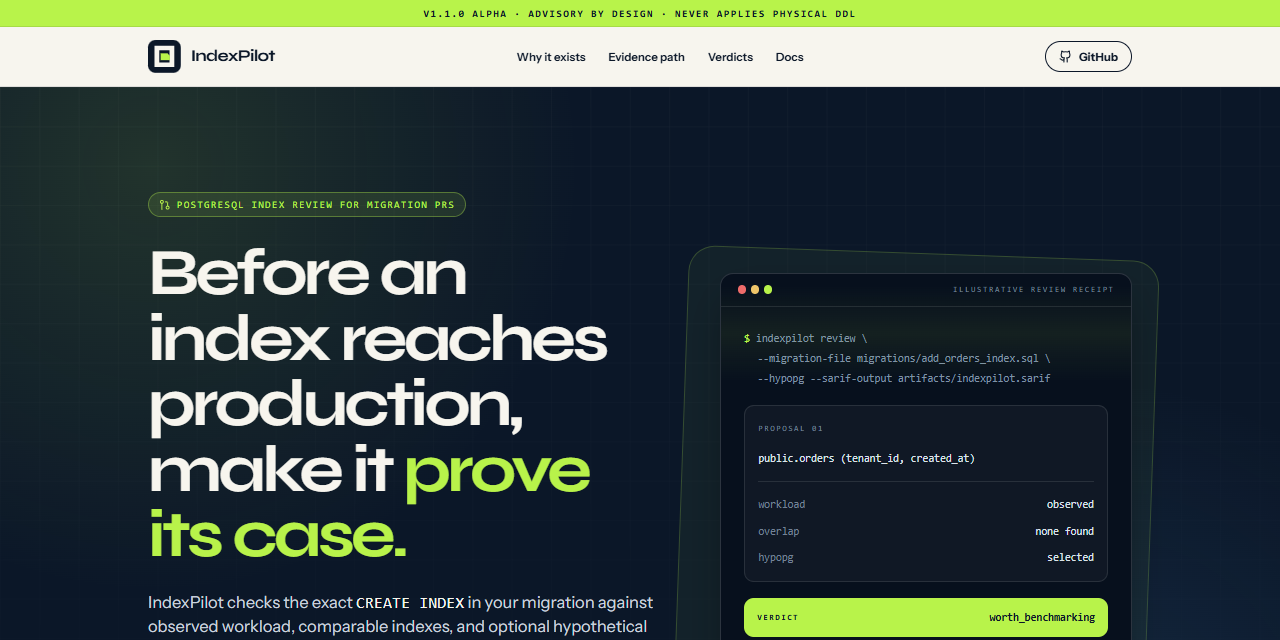
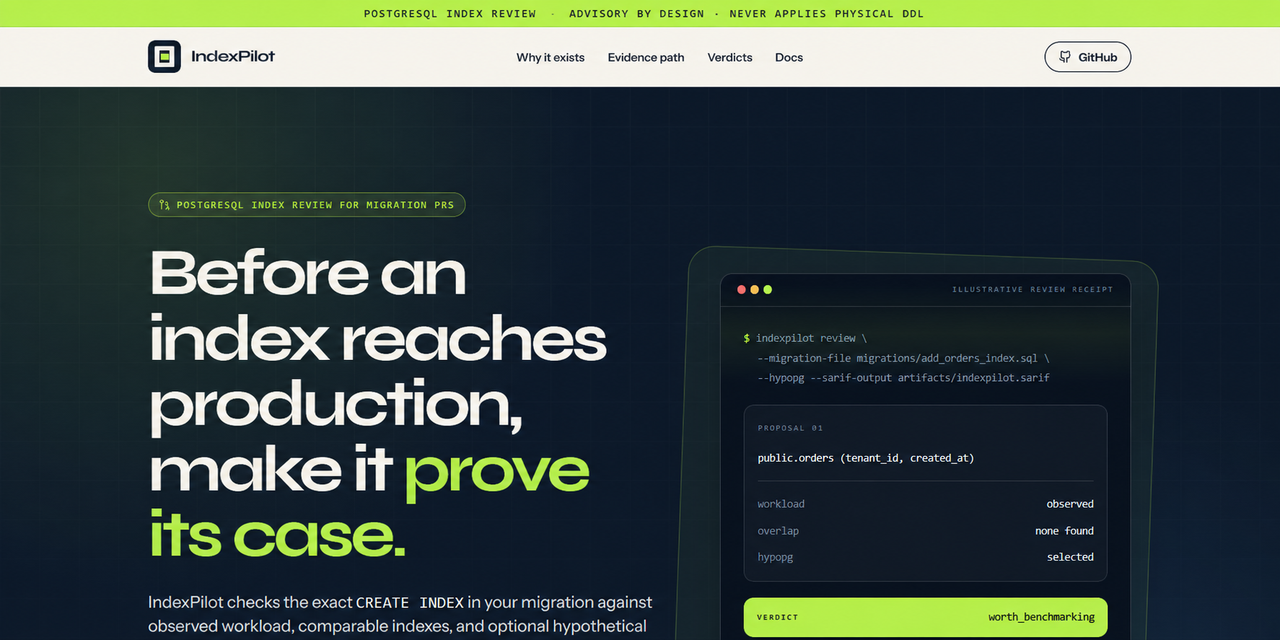
fix(launch): remove stale preview claims (#75)

diff --git a/ui/app/page.tsx b/ui/app/page.tsx
@@ -103,7 +103,7 @@ export default function PublicHome() {
       />
 
       <div className="border-b border-[#0b1728]/10 bg-[#b8f34a] px-4 py-2 text-center font-mono text-[11px] font-semibold uppercase tracking-[0.16em] text-[#0b1728] sm:text-xs">
-        v1.1.0 alpha · advisory by design · never applies physical DDL
+        PostgreSQL index review · advisory by design · never applies physical DDL
       </div>
 
       <header className="sticky top-0 z-50 border-b border-[#0b1728]/10 bg-[#f7f5ee]/90 backdrop-blur-xl">
@@ -440,7 +440,7 @@ export default function PublicHome() {
                 One CLI. Your migration. A read-only role.
               </h2>
               <p className="mt-5 max-w-xl text-lg leading-8 text-[#435043]">
-                Install the current alpha directly from PyPI. The core CLI does not need the
+                Install the current release directly from PyPI. The core CLI does not need the
                 dashboard, API, Docker, or ML extras.
               </p>
               <div className="mt-7 flex flex-wrap gap-3">
@@ -458,7 +458,7 @@ export default function PublicHome() {
                 </a>
               </div>
               <p className="mt-7 border-l-2 border-[#456100] pl-4 text-sm leading-6 text-[#435043]">
-                Alpha boundary: plain-column, non-unique, ascending B-trees. HypoPG review plans one
+                Supported shape: plain-column, non-unique, ascending B-trees. HypoPG review plans one
                 representative query per candidate; it is not a full workload regression test.
               </p>
             </div>
@@ -644,7 +644,7 @@ export default function PublicHome() {
         <section className="bg-[#b8f34a] text-[#0b1728]">
           <div className="mx-auto flex max-w-7xl flex-col gap-8 px-5 py-16 sm:px-8 sm:py-20 lg:flex-row lg:items-center lg:justify-between lg:px-10">
             <div className="max-w-3xl">
-              <p className="font-mono text-xs font-bold uppercase tracking-[0.2em]">Open-source alpha</p>
+              <p className="font-mono text-xs font-bold uppercase tracking-[0.2em]">Open source · read only</p>
               <h2 className="mt-3 font-display text-4xl font-bold tracking-[-0.045em] sm:text-5xl">
                 Put one proposed index on trial.
               </h2>

diff --git a/docs/future phases/SAAS_CONVERSION_PLAN.md b/docs/future phases/SAAS_CONVERSION_PLAN.md
@@ -1,5 +1,9 @@
 # IndexPilot - SaaS Conversion Plan
 
+> **Historical 2025 planning document.** The SaaS, multi-tenant, automatic-indexing, and superiority
+> claims below are not current IndexPilot behavior or launch proof. Use the [README](../../README.md)
+> and [current usage guide](../USAGE.md) for the supported advisory, read-only CLI.
+
 **Date**: 10-12-2025  
 **Purpose**: Comprehensive plan to convert IndexPilot from open-source library to SaaS product  
 **Based on**: Competitive analysis, benchmark results, and market research
@@ -536,4 +540,3 @@ Recommendations → User Database
 **Document Created**: 10-12-2025  
 **Status**: Ready for implementation  
 **Next Review**: After MVP completion
-

diff --git a/docs/installation/EXECUTION_GUIDE.md b/docs/installation/EXECUTION_GUIDE.md
@@ -1,5 +1,9 @@
 # Execution Guide
 
+> **Historical installation path.** The Docker, Python 3.8, and `requirements.txt` steps below are
+> not the current supported setup. Start with the [README](../../README.md) and
+> [current installation guide](../INSTALLATION.md), which support Python 3.10–3.13 and PyPI.
+
 ## Prerequisites
 
 1. **Docker Desktop** must be running on your system
@@ -232,4 +236,3 @@ After running both simulations and the report, you should see:
 - The simulator has been optimized with bulk inserts and connection reuse for 1.7-2x better performance
 - Results are saved as JSON files for later analysis
 - **Main simulation guide**: `docs/installation/SCENARIO_SIMULATION_GUIDE.md` (complete reference)
-

diff --git a/docs/research/COMPETITOR_RESEARCH_FINDINGS.md b/docs/research/COMPETITOR_RESEARCH_FINDINGS.md
@@ -1,5 +1,9 @@
 # IndexPilot Competitor Research Findings
 
+> **Historical 2025 research.** This material informed experiments; it is not a current capability
+> comparison or product claim. Use the [README](../../README.md) and
+> [current usage guide](../USAGE.md) for supported behavior.
+
 **Date**: 07-12-2025  
 **Research Period**: Comprehensive analysis of 5 major competitors  
 **Status**: Complete
@@ -527,4 +531,3 @@ See `COMPETITOR_UPGRADE_PLAN.md` for detailed enhancement recommendations based 
 
 **Research Completed**: 07-12-2025  
 **Status**: Ready for upgrade plan creation
-

diff --git a/docs/research/COMPETITOR_RESEARCH_SUMMARY.md b/docs/research/COMPETITOR_RESEARCH_SUMMARY.md
@@ -1,5 +1,9 @@
 # IndexPilot Competitor Research Summary
 
+> **Historical 2025 research.** This summary is retained for context; it is not a current capability
+> comparison or superiority claim. Use the [README](../../README.md) and
+> [current usage guide](../USAGE.md) for supported behavior.
+
 **Date**: 07-12-2025  
 **Research Status**: ✅ Complete  
 **Documents Created**: 3 comprehensive research documents
@@ -246,4 +250,3 @@ After implementing the upgrade plan, IndexPilot will be:
 **Research Completed**: 07-12-2025  
 **Status**: ✅ Complete - Ready for implementation planning  
 **Last Updated**: 07-12-2025 (Added academic research findings)
-

diff --git a/docs/research/COMPETITOR_UPGRADE_PLAN.md b/docs/research/COMPETITOR_UPGRADE_PLAN.md
@@ -1,5 +1,9 @@
 # IndexPilot Competitive Upgrade Plan
 
+> **Historical 2025 plan.** Implementation and superiority statements below describe the earlier
+> sprint, not the supported public product or production proof. Use the [README](../../README.md)
+> and [current roadmap](../ROADMAP.md) for today's scope.
+
 **Date**: 08-12-2025  
 **Based on**: Comprehensive competitor research  
 **Objective**: Enhance IndexPilot to surpass all competitors
@@ -721,4 +725,3 @@ Based on research from arXiv, TechRxiv, and academic sources, the following adva
 **Status**: Ready for implementation  
 **Last Updated**: 07-12-2025 (Added academic research findings)  
 **Next Steps**: Begin Phase 1 implementation
-

diff --git a/docs/research/USER_PAIN_POINTS_AND_WISHLIST.md b/docs/research/USER_PAIN_POINTS_AND_WISHLIST.md
@@ -1,5 +1,9 @@
 # IndexPilot User Pain Points and Wishlist Research
 
+> **Historical 2025 research.** The pains and wishlist items below are hypotheses and research
+> inputs, not evidence that IndexPilot implements every named capability. Use the
+> [README](../../README.md) and [current usage guide](../USAGE.md) for supported behavior.
+
 **Date**: 07-12-2025  
 **Research Focus**: Deep dive into user pain points and wishlist items for PostgreSQL indexing tools  
 **Status**: Complete
@@ -888,4 +892,3 @@ Research from academic sources (arXiv, TechRxiv) has identified advanced algorit
 **Research Completed**: 07-12-2025  
 **Status**: ✅ Complete - Ready for prioritization and implementation  
 **Last Updated**: 07-12-2025 (Added academic research findings)
-

diff --git a/docs/testing/benchmarking/TESTING_WITH_REAL_DATABASES.md b/docs/testing/benchmarking/TESTING_WITH_REAL_DATABASES.md
@@ -1,5 +1,9 @@
 # Testing IndexPilot with Real Databases
 
+> **Historical 2025 research.** The approaches below are ideas for future validation, not evidence
+> that IndexPilot has produced production latency, write-overhead, index-size, or rollback results.
+> Use the [README](../../../README.md) and [current roadmap](../../ROADMAP.md) for proven scope.
+
 **Date**: 08-12-2025  
 **Purpose**: Research summary on how to test database optimization systems like IndexPilot with real databases, available datasets, and testing communities
 
@@ -376,4 +380,3 @@ The PostgreSQL and database optimization communities are particularly receptive 
 **Document Status**: Research Summary  
 **Last Updated**: 08-12-2025  
 **Author**: AI Research Assistant
-

diff --git a/docs/DOCUMENTATION_INDEX.md b/docs/DOCUMENTATION_INDEX.md
@@ -25,7 +25,9 @@ The public launch path is the read-only PostgreSQL index review CLI. Start with 
 | `docs/codebase/` | Current | Code-rooted architecture, stack, tests, and concerns |
 | `docs/research/2026-07-14_SQL_PARSER_ADOPTION.md` | Current decision record | Why SQLGlot replaced regex parsing |
 | `docs/articles/` | Public drafts | Generic PostgreSQL education without private project evidence |
-| `docs/features/`, `docs/installation/`, `docs/tech/`, `docs/case_studies/` | Mostly historical sprint material | Experiments and context, not current launch claims |
+| `docs/features/`, legacy `docs/installation/`, `docs/tech/`, `docs/case_studies/` | Mostly historical sprint material | Experiments and context, not current launch claims |
+| `docs/future phases/` and legacy `docs/research/` | Historical plans and research | Hypotheses and prior comparisons, not supported behavior |
+| `docs/testing/benchmarking/` | Historical benchmark research and artifacts | Test ideas and sprint evidence, not production proof |
 
 ## Product boundaries
 

diff --git a/docs/features/ENHANCEMENT_ROADMAP.md b/docs/features/ENHANCEMENT_ROADMAP.md
@@ -1,5 +1,9 @@
 # IndexPilot - Focused Enhancement Roadmap
 
+> **Historical 2025 sprint roadmap.** The “production-ready autopilot” direction below is not the
+> current product promise. IndexPilot now launches as an advisory, read-only index review CLI; see
+> the [README](../../README.md) and [current roadmap](../ROADMAP.md).
+
 ## Philosophy: Focused Development
 
 This roadmap is **ruthlessly prioritized** to enhance IndexPilot from a working system to a production-ready autopilot in **2-3 weeks**, not 4-6 months.

diff --git a/docs/installation/AUTO_ACTIVATION_SOLUTION.md b/docs/installation/AUTO_ACTIVATION_SOLUTION.md
@@ -1,5 +1,9 @@
 # Automatic Venv Activation and UTF-8 Setup - Final Solution
 
+> **Historical machine-specific note.** This Git Bash profile change is not required or supported
+> as the normal IndexPilot install. Use the [README](../../README.md) and
+> [current installation guide](../INSTALLATION.md); do not edit shell profiles for a standard setup.
+
 **Date**: 10-12-2025  
 **Status**: ✅ WORKING - Fully Automatic
 

diff --git a/README.md b/README.md
@@ -41,7 +41,7 @@ Use it to answer practical questions:
 [GitHub Action](https://github.com/eyeinthesky6/indexpilot/blob/main/action.yml)
 
 <p align="center">
-  <img src="https://raw.githubusercontent.com/eyeinthesky6/indexpilot/main/ui/public/brand/indexpilot-demo.gif" alt="IndexPilot doctor and migration review demonstration">
+  <img src="https://raw.githubusercontent.com/eyeinthesky6/indexpilot/main/ui/public/brand/indexpilot-review-proof.svg" alt="IndexPilot finding that a proposed PostgreSQL index overlaps an existing index without creating it">
 </p>
 
 ## Try it in 60 seconds